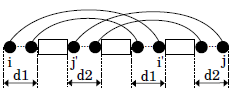
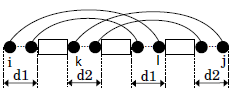
d1,d2 compuatation

Changed region(s): [[0.0, 0.0619, 0.983, 0.8969]]

diff --git a/js/nussinovmatrix.js b/js/nussinovmatrix.js
@@ -143,6 +143,7 @@ var NussinovMatrix = {
      */
     minLoopLength: 0,
 
+
     /**
      * cells of the matrix
      */
@@ -1585,7 +1586,7 @@ DPAlgorithm_pkcanonical.Tables = new Array();
 DPAlgorithm_pkcanonical.Tables.push(Object.create(NussinovMatrix));
 DPAlgorithm_pkcanonical.Tables.push(Object.create(NussinovMatrix));
 DPAlgorithm_pkcanonical.Tables[0].latex_representation = "C(i,j) = \\max \\begin{cases} C(i+1,j-1)+1 & \\text{if }j-i>l \\text{ and } S_i,S_j \\text{ compl. base pair} \\\\ 0 & \\text{else} \\end{cases}";
-DPAlgorithm_pkcanonical.Tables[1].latex_representation= "P(i,j) = \\max \\begin{cases} D(i,j-1) & S_j \\text{ unpaired} \\\\ \\max_{i\\leq k< (j-l)} D(i,k-1)+D(k+1,j-1)+1 & \\text{if } S_k,S_j \\text{ compl. base pair}\\\\ \\max_{i < k < l < j ,\\\\  1 \\le d1 \\le C(i,l) ,\\\\  1 \\le d2 \\le C(k,l), \\\\  (d1+d2) \\le (l-k+1) }d1 + P(i+d1,k-1) + d2 + P(k+d2,l-d1) + P(l+1,j-d2) \\end{cases}";
+DPAlgorithm_pkcanonical.Tables[1].latex_representation= "P(i,j) = \\max \\begin{cases} P(i,j-1) & S_j \\text{ unpaired} \\\\ \\max_{i\\leq k< (j-l)} P(i,k-1)+P(k+1,j-1)+1 & \\text{if } S_k,S_j \\text{ compl. base pair}\\\\ \\max_{i < k < l < j ,\\\\  1 \\le d1 \\le C(i,l) ,\\\\  1 \\le d2 \\le C(k,l), \\\\  (d1+d2) \\le (l-k+1) }  d1 + P(i+d1,k-1) + d2 \\ + P(k+d2,l-d1) + P(l+1,j-d2)  \\end{cases}";
 
 
 DPAlgorithm_pkcanonical.Tables[0].computeCell = function(i, j) {
@@ -1613,7 +1614,7 @@ DPAlgorithm_pkcanonical.Tables[1].computeCell = function(i, j) {
         return curCell;
     }
     // j unpaired
-    this.updateCell(curCell, Object.create(NussinovCellTrace).init([[i, j - 1]], []));
+    this.updateCell(curCell, this.getValue(i,j-1),Object.create(NussinovCellTrace).init([[i, j - 1]], []));
 
     // check base pair based decomposition : (k,j) base pair
     for (var k = i; k + this.minLoopLength < j; k++) {
@@ -1623,12 +1624,34 @@ DPAlgorithm_pkcanonical.Tables[1].computeCell = function(i, j) {
         }
     }
 
+// d1 = min ((k-i), C(i,l))
+// d2 = min (c(k,j),(j-i),(l-k-d1+1)
+//max i<k<l<j
+
     // canonical pseudoknot case
-    for(var k =i; k+this.minLoopLength<j; k++){
-        for(var l=k+this.minLoopLength+1; l<=j; l++) {
-            if (RnaUtil.areComplementary(this.sequence[k - 1], this.sequence[l - 1])) {
-        
-             this.updateCell(curCell,this.getValue(i+d1,k-1)+this.getValue(k+d2,l-d1)+this.getValue(l+1,j-d2), Object.create(NussinovCellTrace).init([[i + d1, k - 1], [k + d2, l - d1], [l + 1 , j - d2]] ));
+     for (var k = i; k < j; k++) {
+        for(var l = k; l < j ; l++) {
+            var d1 = ((k-i), RnaUtil.areComplementary(this.sequence[i - 1], this.sequence[l- 1]))   
+            if(0<d1) {
+                var d1lim = RnaUtil.areComplementary(this.sequence[i - 1], this.sequence[l- 1]);
+                for(;d1<d1lim; d1++) {
+                    var a = ((j-i),(l-k-d1+1))
+                    var b = RnaUtil.areComplementary(this.sequence[k - 1], this.sequence[j- 1]);
+                    var d2 = (a,b);
+                    if(0<d2){
+                        var d2lim = RnaUtil.areComplementary(this.sequence[k - 1], this.sequence[j- 1]);
+                        for(; d2<d2lim; d2++) {
+                            for(var d1d2 =d1+d2; d1d2<=(l-k+1); d1d2++) {
+                                if (RnaUtil.areComplementary(this.sequence[i - 1], this.sequence[l- 1] && this.sequence[k - 1], this.sequence[j- 1] )) {
+                                {
+                                    this.updateCell(curCell,this.getValue(i+d1,k-1)+this.getValue(k+d2,l-d1)+this.getValue(l+1,j-d2), Object.create(NussinovCellTrace).init([[i + d1, k - 1], [k + d2, l - d1], [l + 1 , j - d2]] ));
+                                        
+                                          
+                                }
+                            }
+                        }
+                    }
+                }
             }
         }
     }
@@ -1825,40 +1848,56 @@ DPAlgorithm_pkcanonical.Tables[1].getSubstructures = function (sigma, P, traces,
     }
 
     // canonical pseudoknot case recursion
-    for(var k =i; k+this.minLoopLength<j; k++){
-        for(var l=k+this.minLoopLength+1; l<=j; l++) {
-            if (RnaUtil.areComplementary(this.sequence[k - 1], this.sequence[l - 1])) {
-                var sigma_prime = JSON.stringify(sigma);
-                sigma_prime = JSON.parse(sigma_prime);
-                // sigma_prime.push([ij[0], l - 1]);
-                // sigma_prime.push([l + 1, ij[1] - 1]);
+    for (var k = i; k < j; k++) {
+        for(var l = k; l < j ; l++) {
+            var d1 = p((k-i), RnaUtil.areComplementary(this.sequence[i - 1], this.sequence[l- 1]))   
+            if(0<d1) {
+                var d1lim = RnaUtil.areComplementary(this.sequence[i - 1], this.sequence[l- 1]);
+                for(;d1<d1lim; d1++) {
+                    var yo = p((j-i),(l-k-d1+1))
+                    var pr = RnaUtil.areComplementary(this.sequence[k - 1], this.sequence[j- 1]);
+                    var d2 = p(pr,yo);
+                    if(0<d2){
+                        var d2lim = RnaUtil.areComplementary(this.sequence[k - 1], this.sequence[j- 1]);
+                        for(; d2<d2lim; d2++) {
+                            for(var d1d2 =d1+d2; d1d2<=(l-k+1); d1d2++) {
+                                if (RnaUtil.areComplementary(this.sequence[i - 1], this.sequence[l- 1] && this.sequence[k - 1], this.sequence[j- 1] )) {
+                                {
+                                    var sigma_prime = JSON.stringify(sigma);
+                                    sigma_prime = JSON.parse(sigma_prime);
+                                    //sigma_prime.push();
+                                    var tmp_P = JSON.stringify(P);
+                                    tmp_P = JSON.parse(tmp_P);
+                                    //tmp_P.push();
+                                    var tmp_traces = JSON.stringify(traces);
+                                    tmp_traces = JSON.parse(tmp_traces);
 
-                var tmp_P = JSON.stringify(P);
-                tmp_P = JSON.parse(tmp_P);
-                // tmp_P.push([l, ij[1]]);
+                                    var NSprime = this.countBasepairs(tmp_P, sigma_prime);
 
-                var tmp_traces = JSON.stringify(traces);
-                tmp_traces = JSON.parse(tmp_traces);
+                                    if (NSprime >= Nmax - delta) {
 
-                var NSprime = this.countBasepairs(tmp_P, sigma_prime);
-                if (NSprime >= Nmax - delta) {
+                                        var S_prime = {};
+                                        S_prime.sigma = sigma_prime;
+                                        S_prime.P = tmp_P;
+                                        //tmp_traces.unshift([ij, [[ij[0], l - 1], [l + 1, ij[1] - 1]]]);
+                                        S_prime.traces = tmp_traces;
+                                        //console.log("ilj:", JSON.stringify(S_prime));
+                                        // push to the back to keep base pair most prominent to refine
+                                         R.push(S_prime);
+                                    }
 
-                    var S_prime = {};
-                    S_prime.sigma = sigma_prime;
-                    S_prime.P = tmp_P;
-                    // tmp_traces.unshift([ij, [[ij[0], l - 1], [l + 1, ij[1] - 1]]]);
-                    S_prime.traces = tmp_traces;
-                    //console.log("ilj:", JSON.stringify(S_prime));
-                    // push to the back to keep base pair most prominent to refine
-                    R.push(S_prime);
+                                        // check if enough structures found so far
+                                    if (R.length >= maxLengthR) {
+                                        //console.log("returning R:", JSON.stringify(R));
+                                        return R;
+                                    }
+                                        
+                                          
+                                }
+                            }
+                        }
+                    }
                 }
-
-                // check if enough structures found so far
-                if (R.length >= maxLengthR) {
-                    //console.log("returning R:", JSON.stringify(R));
-                    return R;
-                }
-            
             }
         }
     }

diff --git a/pkCanonical.html b/pkCanonical.html
@@ -2,15 +2,15 @@
 <div class="row" id="introduction">
    <div class="colW600">
     pknotsRG is an algorithm by 
-     <a href="https://doi.org/10.1093/nar/gkm258">Reeder&Giegerich.</a>
+     <a href="https://doi.org/10.1093/nar/gkm258">Reeder and Giegerich.</a>
       It is a tool for  folding RNA secondary structures, including the class of simple recursive pseudoknots. Here, we extend the
      <a href="index.jsp?toolName=Nussinov">Nussinov</a> algorithm for
      such a pseduknot prediction.
      <br />
      <br />
-     Helical stem called 'Canonical stem' which comprises only canonical Watson-Crick base pairs. A cannonical stem with outermost base pair (i ; j) consists of the
-     base pairs (i + k; j - k), k >= 0 such that for all 0 <= k' <= k
-     (i + k'; j - k') is a valid Watson Crick base pair. 
+     Helical stem called 'Canonical stem' which comprises only canonical Watson-Crick base pairs. A cannonical stem with outermost base pair $(i , j)$ consists of the
+     base pairs $(i + k, j - k)$, $k \ge 0$ such that for all $0 \le k' \le k$ it holds that
+     $(i + k', j - k')$ is a valid Watson Crick base pair. 
      A canonical pseudoknot consists of two crossing canonical stems.
      <br/>
      <br />
@@ -21,12 +21,18 @@
         which is used to find the maximal length of canonical stem with outermost base pair $(i,j)$
         <br />
         <span id="rec_id_1" data-bind="text: latex()[1]"></span>
+        
         <br /> 
         which is used to find the maximum number of bps for varying $k$ and $l$
+        <br /> 
+        <br />
+        Where $d1$ = min$((k-i),C(i,l))$
+        <br /> 
+            $d2$ = min$((j-l),(l-k-d1+1),C(k,j))$
      </div>
      <br/>
      <br />
-     Here, Since only two helices participate in one pseudoknot, we loop over all possible knots in one O(n4) loop and store the result in a two-dimensional matrix. 
+     Here, Since only two helices participate in one pseudoknot, we loop over all possible knots in one $O(n^4)$ loop and store the result in a two-dimensional matrix. 
      Finally, the traceback is visualized. 
    </div>
 

diff --git a/js/visualize.js b/js/visualize.js
@@ -138,6 +138,10 @@ function NussinovMatrixViewModel() {
         if ($(rec_select).text() === "pkCanonical") {
             console.log("pkCanonical");
             self.input.recursion("pkCanonical");
+            self.input.allowTraceback = true;
+            //self.input.allowTraceback = false;
+            //cellWidth = 48;
+            //cellHeight = 28;
         }
     });
 
